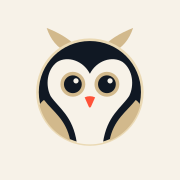
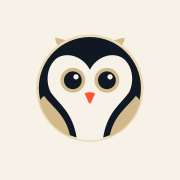
web: the owl's ear tufts are short and soft
Tall and pointed, they read as horns. They now rise only a little above
the head, with rounded tips, in the inline mark, the favicon and the
touch icon.

Changed region(s): [[0.1944, 0.1389, 0.8056, 0.8333]]

diff --git a/web/templates/brand_templ.go b/web/templates/brand_templ.go
@@ -115,7 +115,7 @@ func owl(mood OwlMood, size int) templ.Component {
 		if templ_7745c5c3_Err != nil {
 			return templ_7745c5c3_Err
 		}
-		templ_7745c5c3_Err = templruntime.WriteString(templ_7745c5c3_Buffer, 5, "\" aria-hidden=\"true\" focusable=\"false\"><path class=\"owl-accent\" d=\"M31 22C23 18 18 12 15 3C25 7 34 12 40 20Z\"></path> <path class=\"owl-accent\" d=\"M65 22C73 18 78 12 81 3C71 7 62 12 56 20Z\"></path> <circle class=\"owl-body\" cx=\"48\" cy=\"52\" r=\"40\"></circle> <path class=\"owl-accent\" d=\"M13 58C20 67 30 73 33 89.1A40 40 0 0 1 9.5 62C10.5 60 11.7 58.8 13 58Z\"></path> <path class=\"owl-accent\" d=\"M83 58C76 67 66 73 63 89.1A40 40 0 0 0 86.5 62C85.5 60 84.3 58.8 83 58Z\"></path> <path class=\"owl-face\" d=\"M48 38C43 28 31 24 23 29C15 35 14 47 18 55C24 64 35 70 38 90.6A40 40 0 0 0 58 90.6C61 70 72 64 78 55C82 47 81 35 73 29C65 24 53 28 48 38Z\"></path> ")
+		templ_7745c5c3_Err = templruntime.WriteString(templ_7745c5c3_Buffer, 5, "\" aria-hidden=\"true\" focusable=\"false\"><path class=\"owl-accent\" d=\"M25 21C22.5 18.5 21.5 16 21.5 13.5C26 14 31.5 16 36 19Z\"></path> <path class=\"owl-accent\" d=\"M71 21C73.5 18.5 74.5 16 74.5 13.5C70 14 64.5 16 60 19Z\"></path> <circle class=\"owl-body\" cx=\"48\" cy=\"52\" r=\"40\"></circle> <path class=\"owl-accent\" d=\"M13 58C20 67 30 73 33 89.1A40 40 0 0 1 9.5 62C10.5 60 11.7 58.8 13 58Z\"></path> <path class=\"owl-accent\" d=\"M83 58C76 67 66 73 63 89.1A40 40 0 0 0 86.5 62C85.5 60 84.3 58.8 83 58Z\"></path> <path class=\"owl-face\" d=\"M48 38C43 28 31 24 23 29C15 35 14 47 18 55C24 64 35 70 38 90.6A40 40 0 0 0 58 90.6C61 70 72 64 78 55C82 47 81 35 73 29C65 24 53 28 48 38Z\"></path> ")
 		if templ_7745c5c3_Err != nil {
 			return templ_7745c5c3_Err
 		}
